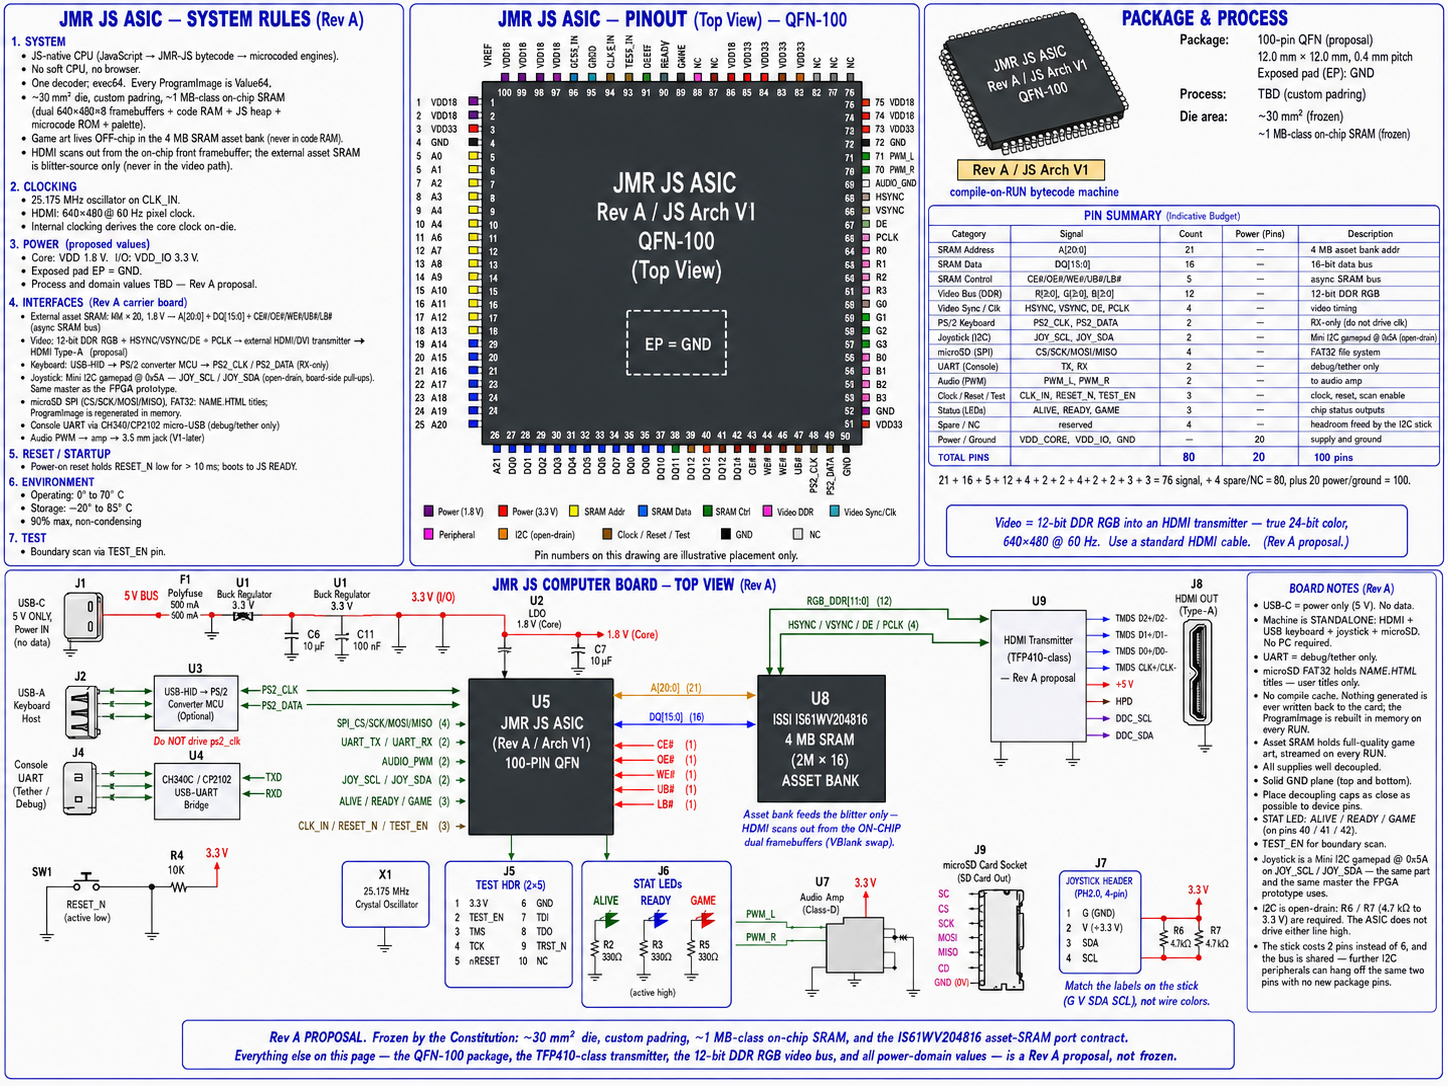
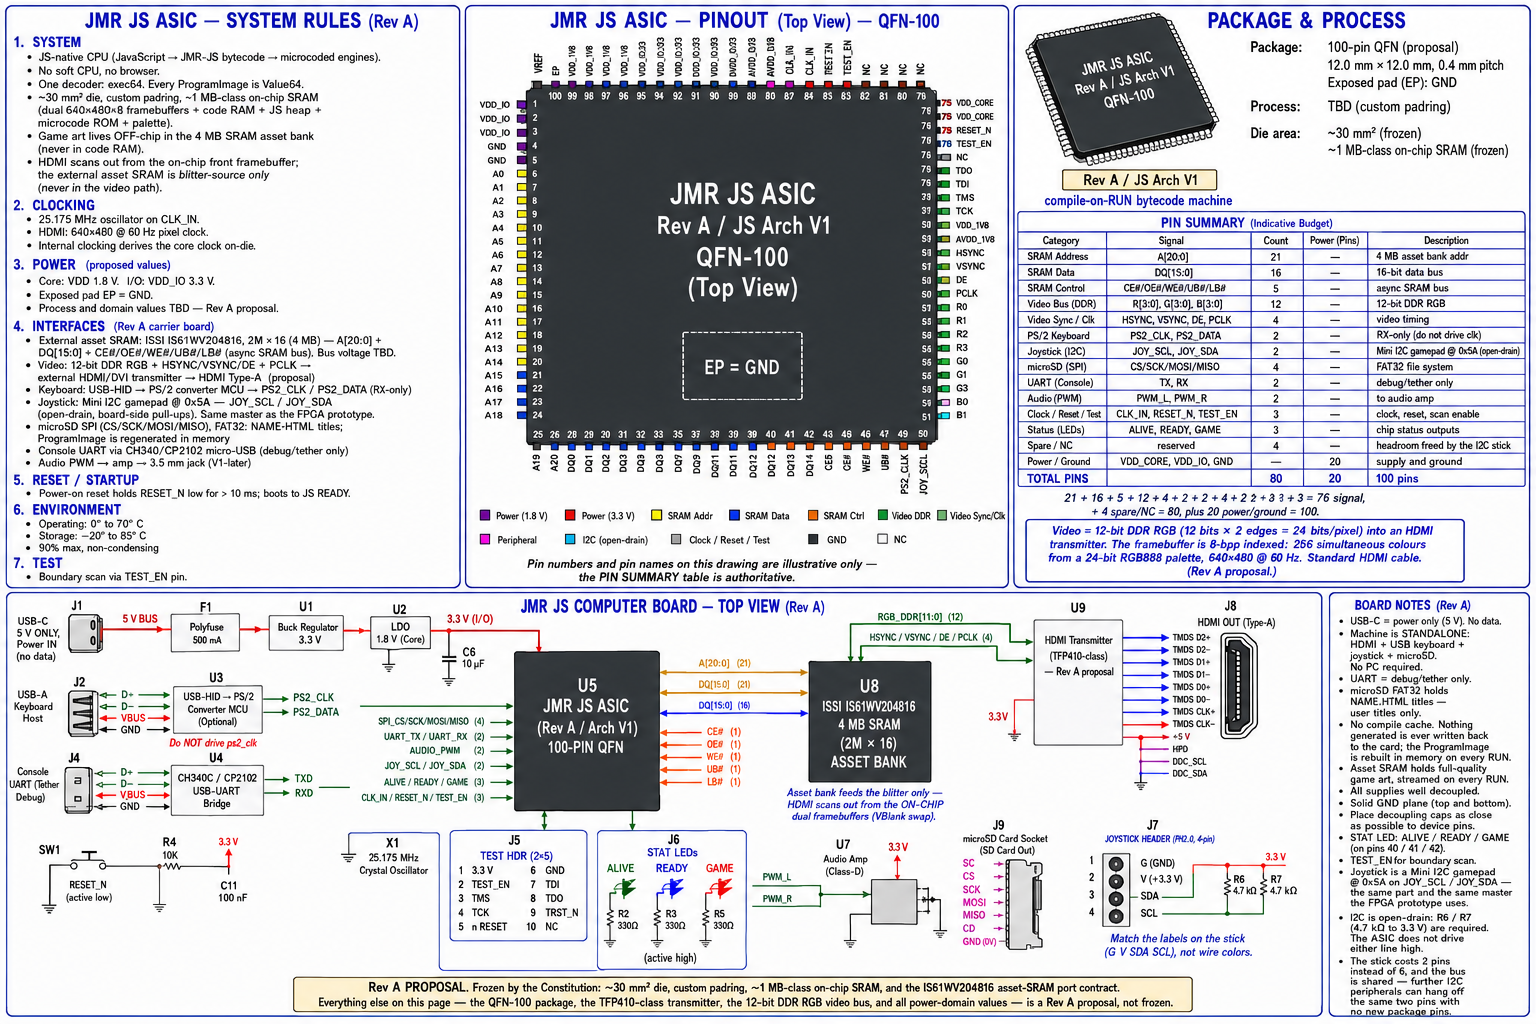
docs: install ASIC poster render 2026-08-21b, update errata
Four of the five open items are fixed in this render: the 4M x 20 / 2M x 16
contradiction in SYSTEM RULES §4, the duplicate U1 buck regulator, the
pin-ring caption (now disclaims names as well as numbers), and the video
note's colour qualifier.

Still open, now recorded in the errata:
- J8 is still drawn as a plain vertical rectangle instead of the HDMI
  Type-A trapezoid; the label itself is correct
- regression: the pin-budget running-sum caption lost a "+" and prints
  "... + 2 + 2 3 + 3 = 76 signal". The totals and the PIN SUMMARY table are
  both correct; only the caption is mangled
- regression: a spurious third bus label "DQ[15:0] (21)" now sits between
  the correct A[20:0] (21) and DQ[15:0] (16) on the U5 -> U8 path
- the QFN ring names stay decorative, as the caption now says. Recorded for
  anyone who reads them anyway: JOY_SDA, PS2_DATA and LB# absent; RESET_N
  and TEST_EN drawn on two edges each; EP shown as a ring pin; supply names
  mixing letters for digits (VDD_IV8, AVDD_0I8) and VDD_0V33 where the page
  otherwise says VDD_IO 3.3 V

The regeneration prompt now guards both regressions: exactly two buses on
the U5 -> U8 path with DQ pinned to width 16, and an explicit note that
every term in the budget caption is separated by a "+".

Claude-Session: https://claude.ai/code/session_01EFkPthFCYhozr85XPfuzo9

diff --git a/docs/ARCHITECTURE.md b/docs/ARCHITECTURE.md
@@ -57,41 +57,51 @@ Capacities on the poster match silicon (`jmr_js_vm.sv` / `jmr_js_vm_pkg.sv` /
 
 **ASIC board poster (Rev A proposal)** — QFN-100 chip + external 4 MB asset
 SRAM + HDMI transmitter carrier board, sibling style to the JMR BASIC ASIC
-board poster. Render **2026-08-21**. Regeneration prompt:
+board poster. Render **2026-08-21b**. Regeneration prompt:
 [POSTER_PROMPT_ASIC_BOARD_REV_A.md](POSTER_PROMPT_ASIC_BOARD_REV_A.md).
 
 ![JMR JS ASIC — Rev A board poster](jmr_js_asic_board_rev_a.png)
 
-### ASIC board poster errata (render 2026-08-21)
+### ASIC board poster errata (render 2026-08-21b)
 
-Most of the previous list is **cleared**: the frozen-vs-proposed banner, the
-`(Indicative Budget)` heading, the removal of `RRAM_CTRL`, Audio (PWM) = 2, a
-budget that sums to 100, `debug/tether`, `NAME.HTML titles`, the deleted
-compile-cache line, and the I2C joystick on `JOY_SCL` / `JOY_SDA` are all
-correct in this render. What is still wrong:
+This render fixed four of the five items from the previous pass. **Cleared:**
+the `4M × 20` / `2M × 16` contradiction (§4 now reads
+"ISSI IS61WV204816, 2M × 16 (4 MB) … Bus voltage TBD"); the duplicate `U1`
+buck regulator (the chain is now `F1` → `U1` → `U2`, and "500 mA" prints
+once); the pin-ring caption, which now disclaims **names as well as
+numbers** and points at the PIN SUMMARY table; and the video note, which now
+states "12 bits × 2 edges = 24 bits/pixel" and "8-bpp indexed: 256
+simultaneous colours from a 24-bit RGB888 palette".
 
-- **SYSTEM RULES §4 contradicts U8 on the same page.** The bullet reads
-  "External asset SRAM: **4M × 20**, 1.8 V"; the part is **2M × 16** (4 MB),
-  exactly as the U8 block in the board drawing says. The `4M × 20` figure was
-  carried forward from the previous render into the regeneration prompt and
-  should never have survived — corrected in the prompt now. The **1.8 V**
-  on that bullet is also doubtful: `IS61WV204816` is a 2.5 V/3.3 V part and
-  the poster's own I/O rail is 3.3 V. Treat the SRAM bus voltage as **TBD**,
-  not 1.8 V.
-- **Duplicate reference designator.** The power chain draws two adjacent
-  blocks both labelled "U1 Buck Regulator 3.3 V". There is one 3.3 V buck;
-  the second block should be a different designator or removed. "F1 Polyfuse
-  500 mA" likewise prints "500 mA" twice.
-- **QFN pin-ring labels are decorative and partly garbled** — `TES1_IN`
-  (should be `TEST_EN`), `GCES IN`, `DEEF` / `OEEF`, and `JOY_SCL` /
-  `JOY_SDA` do not appear on the ring at all. The poster already declares
-  pin numbers illustrative; extend that to the **names**. The **PIN SUMMARY
-  table is the authoritative pin list**, and it is correct.
-- **"true 24-bit color" needs its qualifier.** See the colour note below.
-- **J8 is drawn as a generic rectangular connector.** The label
-  "HDMI OUT (Type-A)" is right — it is an ordinary full-size HDMI receptacle
-  taking a standard HDMI cable. Only the glyph is wrong; nothing in the
-  design calls for a non-standard connector.
+Still open:
+
+- **J8 is still a plain vertical rectangle.** The label "HDMI OUT (Type-A)"
+  is correct — a standard full-size receptacle taking a standard HDMI cable
+  — but the connector body should be the Type-A trapezoid (wide top, shorter
+  bottom edge). This is the one requested fix the render did not take.
+- **Pin-budget caption arithmetic is garbled.** It prints
+  "… + 2 + 2 3 + 3 = 76 signal" — a `+` is lost near the end. The totals
+  either side are right (76 signal + 4 spare/NC = 80, + 20 power/ground =
+  100) and the PIN SUMMARY table itself is correct; only the running sum in
+  the caption is mangled. This is a **regression** — the previous render
+  printed it correctly.
+- **Spurious third bus label on the U5 → U8 path.** The drawing shows
+  `A[20:0] (21)`, then **`DQ[15:0] (21)`**, then `DQ[15:0] (16)`. The middle
+  one is wrong twice over — duplicated net, wrong width. There are exactly
+  two buses: `A[20:0] (21)` and `DQ[15:0] (16)`. Also a **regression**.
+- **QFN ring names remain decorative**, which the caption now admits. Known
+  issues if anyone reads them: `JOY_SDA`, `PS2_DATA`, and `LB#` are absent;
+  `RESET_N` and `TEST_EN` are drawn on two edges each; `EP` appears as a
+  ring pin when it is the exposed pad; and the supply names mix letters for
+  digits (`VDD_IV8`, `AVDD_0I8`) and use `VDD_0V33` where the rest of the
+  page says `VDD_IO` 3.3 V. **The PIN SUMMARY table is the pin list** — it
+  is correct, and it is what the caption points to.
+
+Everything else on the page is right: the frozen-vs-proposed banner, the
+`(Indicative Budget)` heading, no `RRAM_CTRL` row, Audio (PWM) = 2, the
+Spare / NC row, `debug/tether`, `NAME.HTML` titles, the absent compile-cache
+line, `exec64` in SYSTEM RULES §1, and the I2C joystick on `JOY_SCL` /
+`JOY_SDA` with the PH2.0 4-pin header and its 4.7 kΩ pull-ups.
 
 ### Colour: 8-bpp indexed, 24-bit palette, 24-bit wire
 

diff --git a/docs/POSTER_PROMPT_ASIC_BOARD_REV_A.md b/docs/POSTER_PROMPT_ASIC_BOARD_REV_A.md
@@ -168,6 +168,7 @@ A table with columns "Category", "Signal", "Count", "Power (Pins)",
 Final bold row: "TOTAL PINS" / "" / "80" / "20" / "100 pins"
 Caption under the table, exactly:
 "21 + 16 + 5 + 12 + 4 + 2 + 2 + 4 + 2 + 2 + 3 + 3 = 76 signal, + 4 spare/NC = 80, plus 20 power/ground = 100."
+(Every term in that caption is separated by a "+". Do not drop one.)
 (There is NO "RRAM_CTRL" row. Do not add one. The counts above sum to
 exactly 100 — do not alter any number.)
 Blue note box below the table:
@@ -196,7 +197,7 @@ Input, left edge:
 
 Centre — the chip:
 - Large box "U5  JMR JS ASIC  (Rev A / Arch V1)  100-PIN QFN"
-- Buses leaving the right side toward U8: "A[20:0]  (21)", "DQ[15:0]  (16)", and control "CE# (1)", "OE# (1)", "WE# (1)", "UB# (1)", "LB# (1)"
+- Buses leaving the right side toward U8: EXACTLY TWO — "A[20:0]  (21)" and "DQ[15:0]  (16)" — plus control "CE# (1)", "OE# (1)", "WE# (1)", "UB# (1)", "LB# (1)". Do not draw a third bus, do not repeat DQ, and never label DQ with a width other than 16.
 - Buses leaving the top-right toward U9: "RGB_DDR[11:0]  (12)", "HSYNC / VSYNC / DE / PCLK  (4)"
 - Other nets: "SPI_CS/SCK/MOSI/MISO  (4)", "UART_TX / UART_RX  (2)", "AUDIO_PWM  (2)", "JOY_SCL / JOY_SDA  (2)", "ALIVE / READY / GAME  (3)", "CLK_IN / RESET_N / TEST_EN  (3)"
 
@@ -247,6 +248,8 @@ DO NOT PLACE ANYWHERE ON THIS POSTER
 - a 6-pin GPIO joystick header, "Joystick (GPIO)", or "GP[5:0]" — the
   stick is I2C on both the FPGA prototype and the ASIC
 - a pin-count table whose rows do not sum to 100
+- a running-sum caption with a missing "+" between terms
+- a third or duplicated bus on the U5 → U8 path
 - "4M × 20" for the asset SRAM — the part is 2M × 16 (4 MB)
 - two blocks sharing one reference designator
 - "true 24-bit color" without saying the framebuffer is 8-bpp indexed
